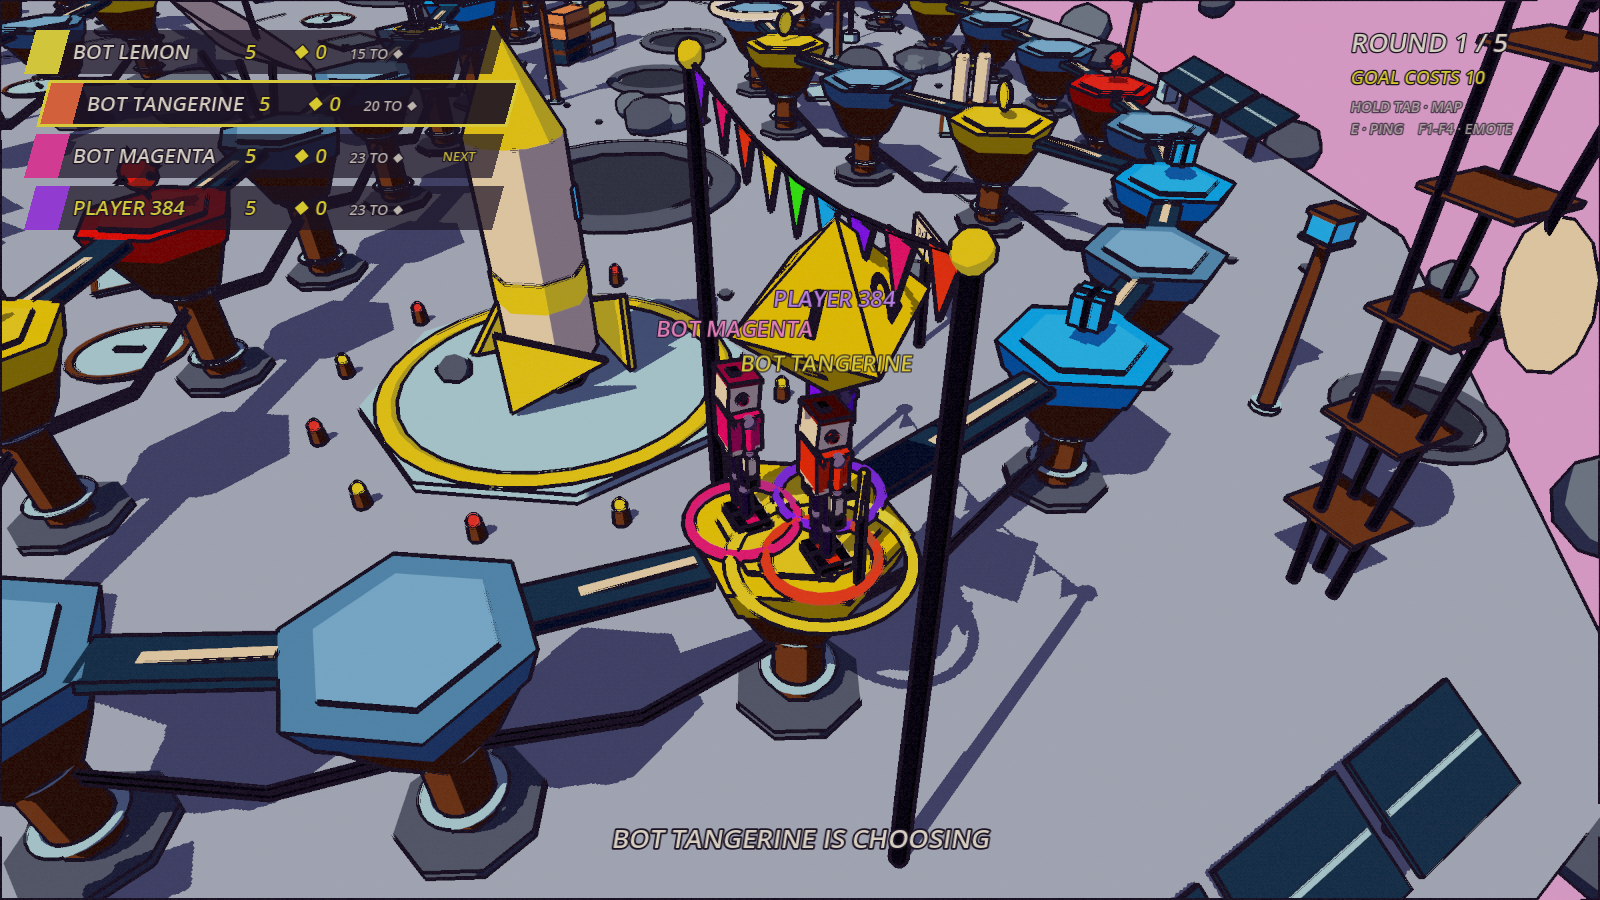
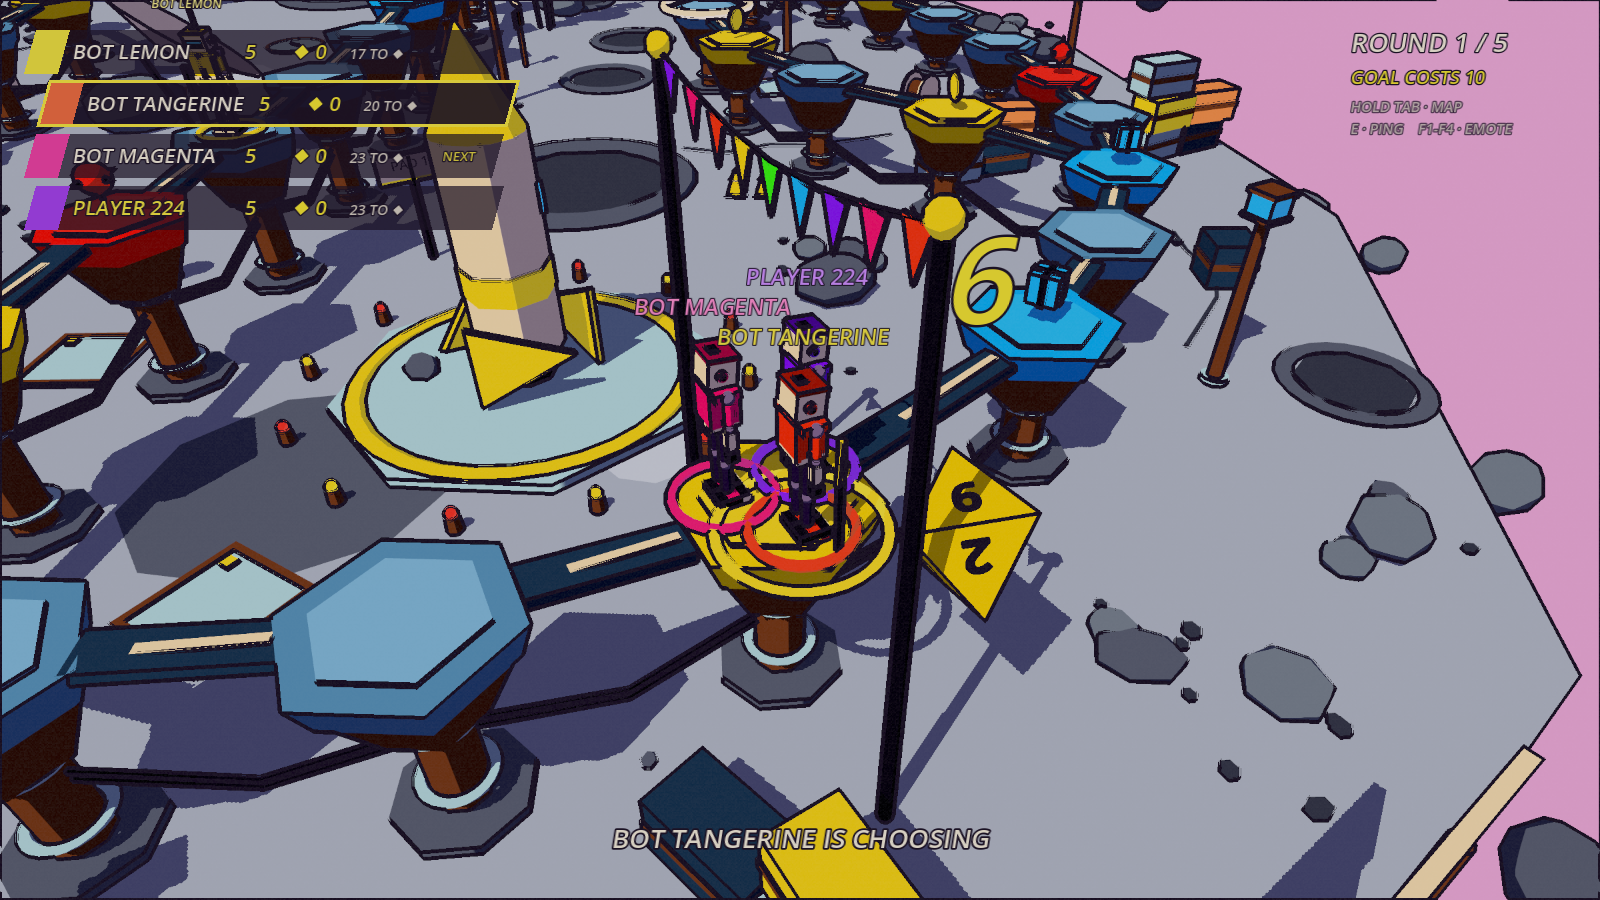
Board: small props beside the walkway every fourth space
Cones, bins, kiosks, a cable spool and crates, alternating sides, placed before the annexes.
9 fit on BOMBA BAY. check_all 3 of 3 PASS; board_turn and board_overview retaken.

diff --git a/DECISIONS.md b/DECISIONS.md
@@ -156,3 +156,4 @@ Append-only. One line per assumption: date, the decision, the reason. Newest at 
 - 2026-09-20 — Arena dressing pass (`fps/match/map_dressing.gd`, `MapDressing.dress`): the gray-box was the one thing in the 1080p frames that still looked unfinished, so every FPS map now gets a city around and on it, all as decor (meshes without collision) appended to the layout, so the boxes, spawns and the tested bot graph are untouched and the layout tests still hold. Outside the walls: two bands of blocks sized to show over the 6 m wall from anywhere on the floor (10–18 m tall 5–17 m out, 18–40 m tall 22–46 m out, from the eye-height geometry), with lit window strips on the near band, water tanks and antennas on the far one, a tower crane and a radio mast as landmarks. On the walls: two rows of windows and doors on a 2.4 m pitch that keep clear of the posters, a cornice and a plinth, pipes with junction boxes, two billboards standing on the wall tops (with a dark back for the roofs). Every free-standing building gets windows on all faces and a roof unit; every crate a strap band; the highest deck a beacon mast; the floor a plaza slab, sidewalks and drain grates; the corners barrels and a dumpster by the east wall. Three palette tones added per map (skyline, skyline_far, window), so LAST STAND's dusk pit gets navy blocks with orange windows under its own sky. Cost at 1080p on the 5090: 409 → 744 objects, GPU 0.64 → 0.66 ms mean, map build 1 → 9 ms; the switch frame 162 ms under the wipe. Sean's verdict on the look is pending; the shape of the play is unchanged.
 - 2026-09-20 — A layout may carry its own showcase vantage (`"showcase": {pos, look}`, read by `--spectate`): the fixed arena vantage stood 13 m outside THE PIT's walls, so `last_stand_pit.png` had been a view of a wall's outside; the pit's camera now stands inside its SW corner.
 - 2026-09-20 — Board detail pass (Sean: "add a bunch of detail to the board game map, it's good so far but lacks detail, spend a lot of time making it look great"), as `board/board_dressing.gd`, a node the view adds after the moon and the space, deterministic from the board id and placed by seeded search in spots clear of the tiles, the craters and the five landmark props (which the view now keeps in `_craters` and `_prop_spots`). On the path: a lighter inset hex on every tile, metal collars top and foot on every post, a cream stripe down every plank, two cables slung under every plank, a glass-headed lamp beside every fifth space, and a start line: two posts and a string of pennants in the player colours 3.9 m over the start tile, clear of a hopping pawn. On the ground: 12 hatches, 10 rock clusters with pebbles, 60 loose pebbles, dust patches, cracks, rock chunks along the rim. Two annex platforms off the rim where the tiles sit farthest from it (the loop leaves no room inside for anything big), each a smaller chunk with its own root, joined by a plated bridge with rails and lamps: the base (three habitat domes with seams, caps, round windows and base lights, tube corridors with rings, an airlock and a HAB 1 sign, the greenhouse with glowing plants, a cargo stack, oxygen tanks) and the works (three fuel tanks on cradles with hoops and a manifold, a two-row solar array, the telescope dome, an antenna). On the slab: single-row solar arrays, cargo stacks, a lattice comms mast, antenna masts, a drill rig over the largest crater, oxygen tanks, landing lights round the pad, the BOMBA BAY welcome sign (with a back, and labels no longer double-sided so they never read mirrored), a PAD 1 sign, an arrow post. Alive: a patrol drone flying the loop at 3.4 m/s, a buggy driving the longest clear stretch of a rim road (planned before the props so they keep off it) and leaving tyre tracks, blinking lights on the masts, sign and rig, a shooting star every 14–26 s, a space station turning on the horizon and a freighter on a 110 s lap. Four rounds of frames from the player's camera and fixed vantages drove the placement rules (clearances, the annexes, the road planned first). Cost at 1080p: dressing built in 25 ms, board GPU 0.63 ms (unchanged), render CPU 0.41 → 0.84 ms; no frame over 150 ms at the board start. His verdict on the look is pending.
+- 2026-09-20 — Path-side props every fourth space, alternating the outer and inner side of the walkway and cycling five kinds (two traffic cones with white bands, a bin with a glowing slot, an info kiosk with a screen and a little dish, a cable spool on its side, a strapped crate), placed before the annexes so they get first pick of the path sides: 9 fit on BOMBA BAY (3 bins, 2 kiosks, 2 crates, 1 pair of cones, 1 spool). The stretches of loop between the big pieces had only a lamp every fifth tile; the close camera now always has something beside the path.

diff --git a/STATUS.md b/STATUS.md
@@ -532,7 +532,8 @@ measured at 1920×1080 unless noted, on the 5090, and extrapolated.
   His verdict on the look is pending.
 - **Board detail pass** (`board/board_dressing.gd`; Sean: "add a bunch of detail... make it look
   great"): tile insets, post collars, plank stripes and cables, 11 lamps, a pennant start line;
-  12 hatches, 10 rock clusters, pebbles, dust, cracks, rim rock; two annex platforms with bridges
+  9 small props beside the path (cones, bins, kiosks, a spool, crates); 12 hatches, 10 rock
+  clusters, pebbles, dust, cracks, rim rock; two annex platforms with bridges
   (the base: habitat domes, corridors, greenhouse, cargo, oxygen; the works: fuel tanks, solar
   array, telescope, antenna); on the slab solar arrays, cargo, a comms mast, antennas, a drill
   rig, landing lights, three signs; alive: a patrol drone, a driving buggy with tracks, blinking
